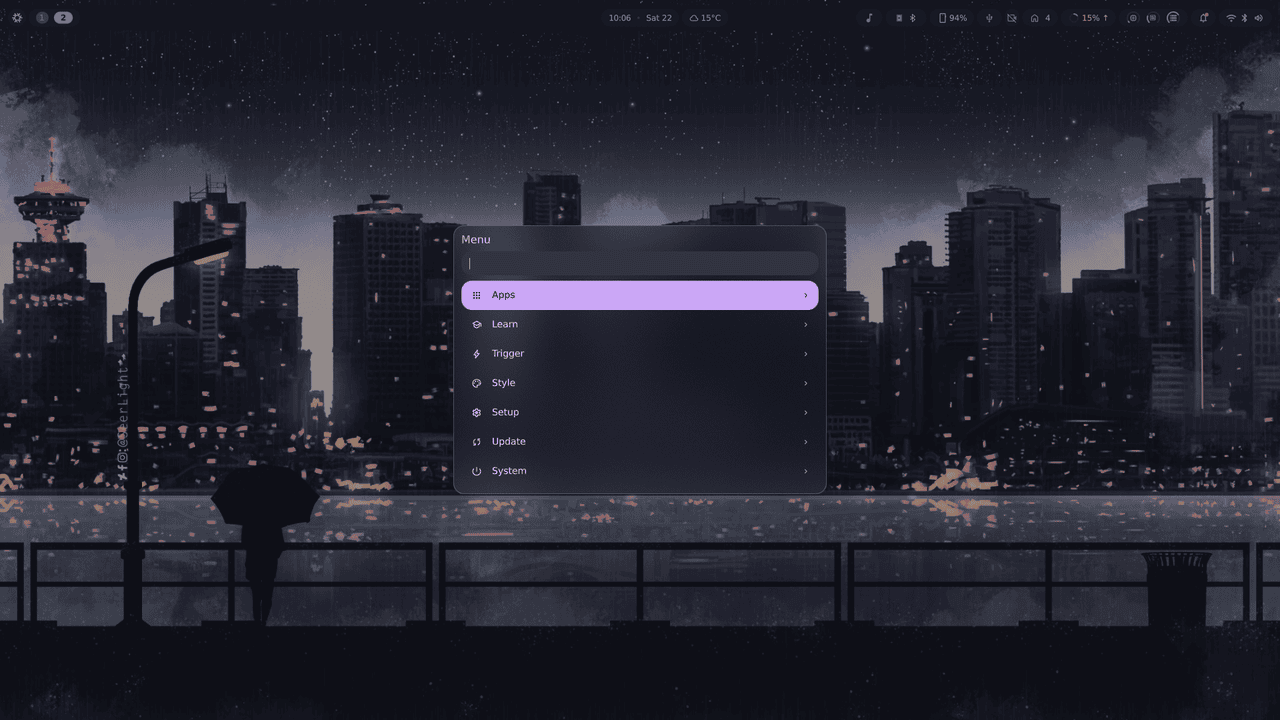
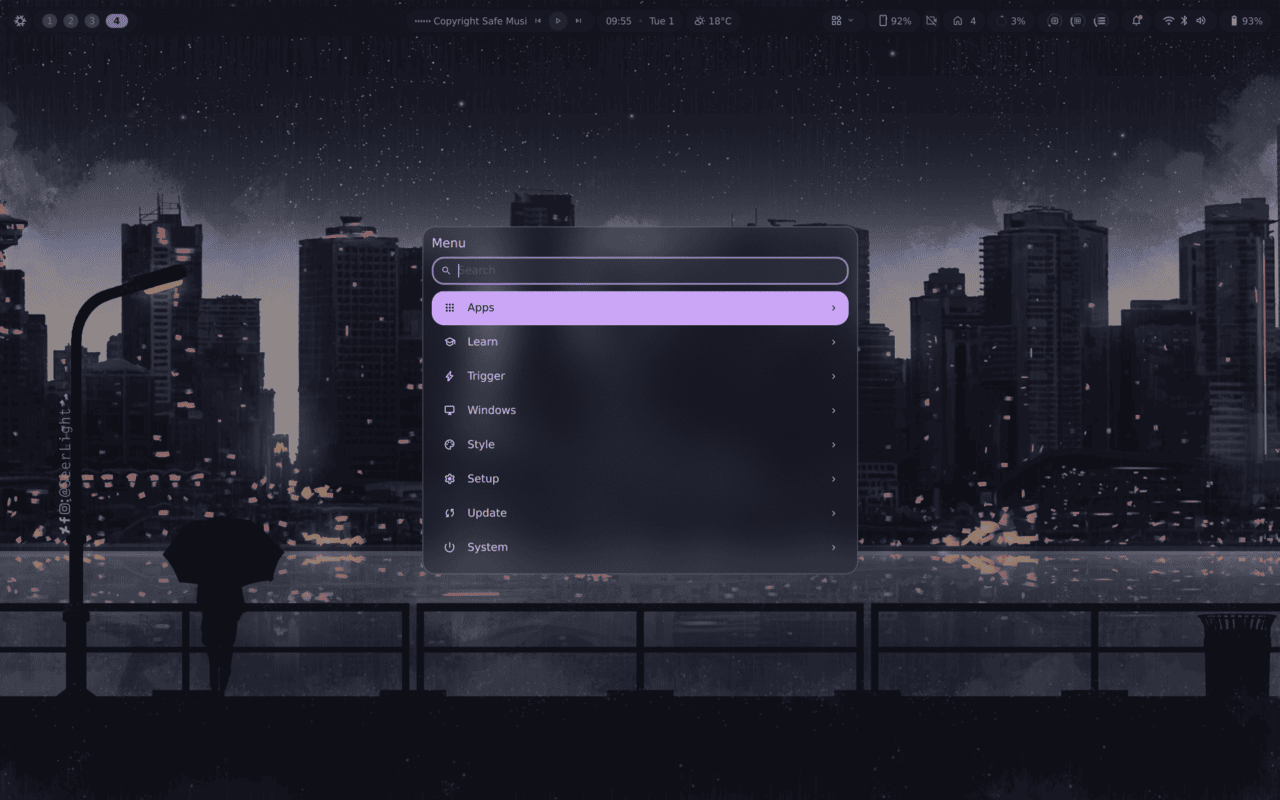
docs(dankmenu): reshoot the screenshots, add a plugin answer
The four dankMenu shots were taken on 2026-08-22, before the search field was
restyled and before launcher plugins answered in the menu, so every one of them
showed a field that no longer exists and a root that no longer matches the tree
(this host's `windows` subtree is live now, so the root has eight rows).

Retaken on the same display at 1280 wide — 16:10 rather than the old 16:9,
which is what the panel actually is.

plugins.png is new: the calculator plugin answering `=integrate(2x)` from the
root, which the Launcher plugins section described but never showed.

Claude-Session: https://claude.ai/code/session_01YLkZJhyth3N7spzFBoERD6

diff --git a/plugins/dankmenu/README.md b/plugins/dankmenu/README.md
@@ -300,6 +300,8 @@ installed — work here too, under the same triggers they use in spotlight:
 ;shrug      emoji
 ```
 
+![a calculator answer in the menu](screenshots/plugins.png)
+
 The trigger is honoured at **any level**, not just the root: the prefix is
 explicit intent, and the level you are standing in has nothing to say about an
 arithmetic expression. A plugin's rows come back in the plugin's own order,
